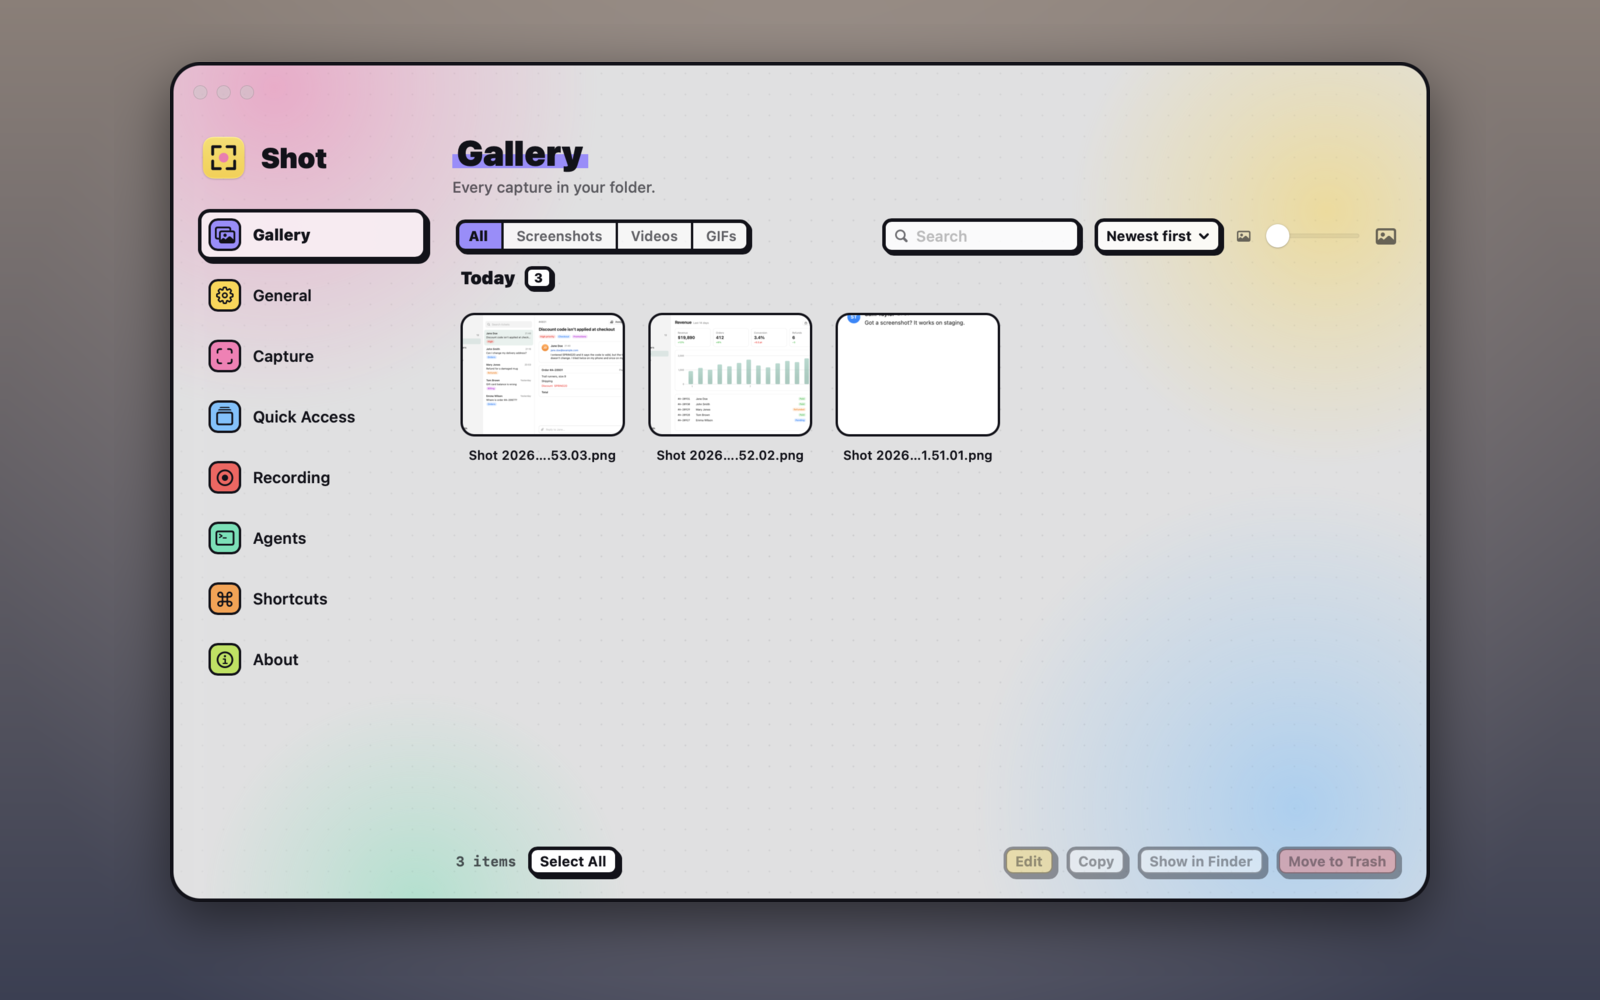
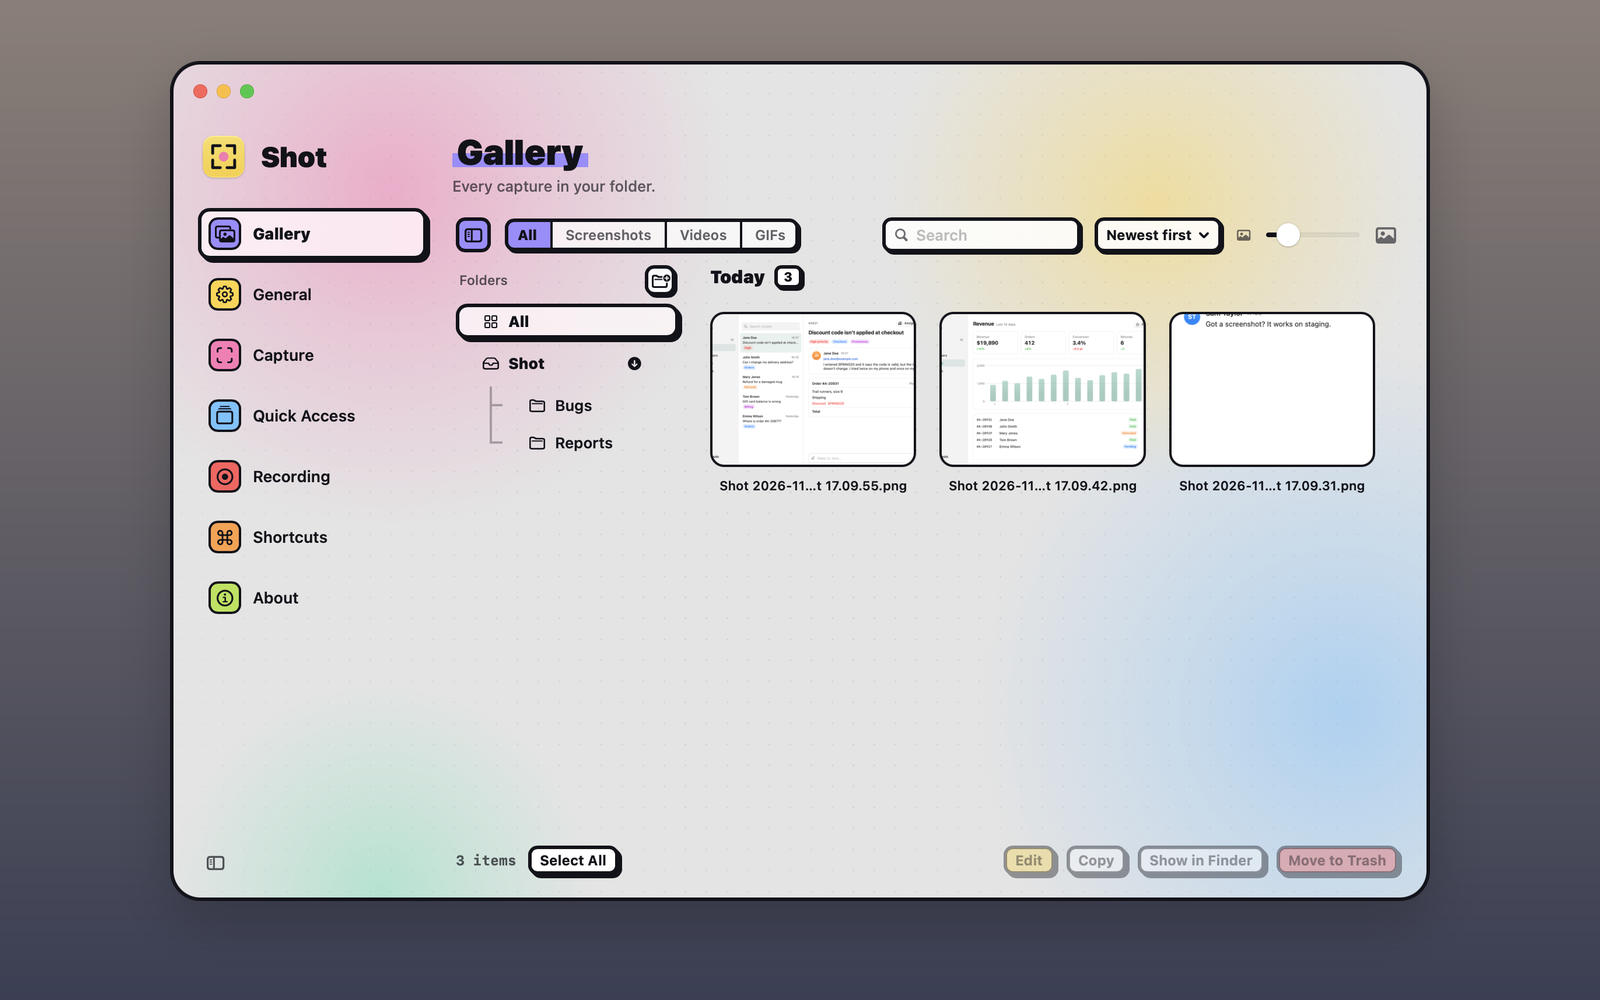
docs: reshoot the gallery picture with folders
Part of #1024

diff --git a/site/src/guide/07-find-your-captures.md b/site/src/guide/07-find-your-captures.md
@@ -4,7 +4,7 @@ summary: "Browse, search, filter and reopen everything in your save folder in th
 group: Edit and share
 ---
 
-![The gallery: an annotated screenshot, a GIF, a recording and three screenshots, with filters, sort and the thumbnail size slider](../../../docs/media/gallery.png)
+![The gallery with its folder sidebar open, listing a Bugs and a Reports folder beside three screenshots, with filters, sort and the thumbnail size slider](../../../docs/media/gallery.png)
 
 ## Open the gallery
 
